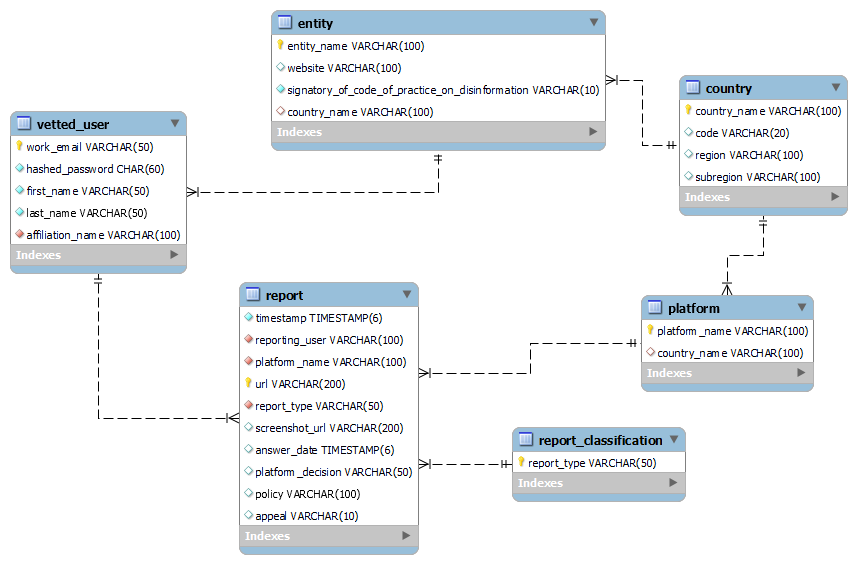
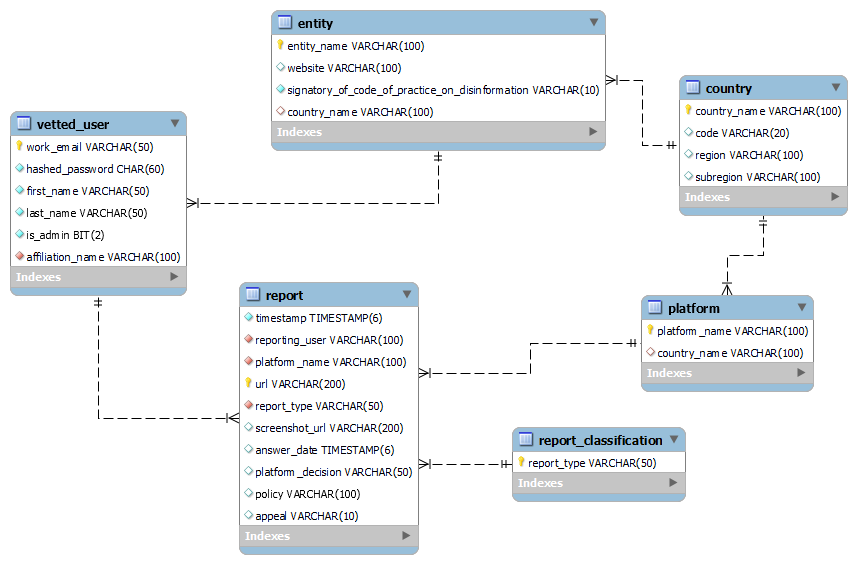
Added the admin menu and updated the app and database accordingly

Changed region(s): [[0.0, 0.3918, 0.2427, 0.5426], [0.4854, 0.3316, 0.5158, 0.3617], [0.2124, 0.3316, 0.2427, 0.3617]]

diff --git a/app.py b/app.py
@@ -20,12 +20,13 @@ server = app.server
 #_______________________________Pages Custom Properties_______________________________#
 
 app_pages = [
-    {"name" : "Home", "relative_path" : "/", "protected" : False, "show_to_active_user" : True},
-    {"name" : "Data Insights", "relative_path" : "/data-insights", "protected" : False, "show_to_active_user": True},
-    {"name" : "Application", "relative_path" : "/application", "protected" : False, "show_to_active_user": False},
-    {"name" : "Internal", "relative_path" : "/internal", "protected" : True, "show_to_active_user" : True},
-    {"name" : "Login", "relative_path" : "/login", "protected" : False, "show_to_active_user":False},
-    {"name" : "Logout", "relative_path" : "/login", "protected" : True, "show_to_active_user":True}
+    {"name" : "Home", "relative_path" : "/", "show_to_public":True, "show_to_users":True, "show_to_admin":True},
+    {"name" : "Admin Menu", "relative_path" : "/admin-menu", "show_to_public":False, "show_to_users":False, "show_to_admin":True},
+    {"name" : "Data Insights", "relative_path" : "/data-insights", "show_to_public":True, "show_to_users":True, "show_to_admin":True},
+    {"name" : "Application", "relative_path" : "/application", "show_to_public":True, "show_to_users":False, "show_to_admin":False},
+    {"name" : "Internal", "relative_path" : "/internal", "show_to_public":False, "show_to_users":True, "show_to_admin":True},
+    {"name" : "Login", "relative_path" : "/login", "show_to_public":True, "show_to_users":False, "show_to_admin":False},
+    {"name" : "Logout", "relative_path" : "/login", "show_to_public":False, "show_to_users":True, "show_to_admin":True}
 ]
 
 #___________________________________Navigation bar___________________________________#
@@ -92,20 +93,28 @@ def switch_app_theme(dark_theme_active):
     Input("id_session_data", "data")
     )
 def update_navbar_pages(session_data):
-    authenticated = session_data.get("is_authenticated", False)
+    is_authenticated = session_data.get("is_authenticated", False)
+    is_admin = session_data.get("is_admin", False)
 
-    if authenticated:
-        protected_pages = [
+    if is_authenticated and is_admin:
+        admin_pages = [
         dbc.NavItem(
             dbc.NavLink(f"{page['name']}", href = page["relative_path"], active = "exact")
-            ) for page in app_pages if page["show_to_active_user"] == True
+            ) for page in app_pages if page["show_to_admin"] == True
         ]
-        return protected_pages
+        return admin_pages
+    elif is_authenticated and not is_admin:
+        users_pages = [
+        dbc.NavItem(
+            dbc.NavLink(f"{page['name']}", href = page["relative_path"], active = "exact")
+            ) for page in app_pages if page["show_to_users"] == True
+        ]
+        return users_pages
     else:
         public_pages = [
         dbc.NavItem(
             dbc.NavLink(f"{page['name']}", href = page["relative_path"], active = "exact")
-            ) for page in app_pages if page["protected"] == False
+            ) for page in app_pages if page["show_to_public"] == True
         ]
         return public_pages
 

diff --git a/pages/internal.py b/pages/internal.py
@@ -1,4 +1,4 @@
-from dash import Dash, html, dcc, callback, Output, Input, State, ctx, no_update, register_page
+from dash import Dash, html, dcc, callback, Output, Input, State, ctx, register_page
 import dash_bootstrap_components as dbc
 import dash_mantine_components as dmc
 from datetime import datetime
@@ -12,6 +12,7 @@ from utils.app_queries import select_reports_types
 from utils.app_queries import delete_report
 from utils.app_queries import add_report
 from utils.app_queries import update_report
+from utils.custom_templates import permission_denial_layout
 
 register_page(__name__)
 
@@ -419,7 +420,7 @@ add_report_button = dbc.Button(
 
 #_______________________________________Layout Protection Setup_______________________________________#
 
-protected_container = dbc.Container([
+protected_layout = dbc.Container([
         html.H1("Internal", style = {"text-align":"center"}),
         dmc.Center(html.H4("Update existing report or insert a new report.")),
         dbc.Row([reports_grid]),
@@ -445,20 +446,6 @@ protected_container = dbc.Container([
     fluid = True
 )
 
-
-unprotected_container = dbc.Container([
-    html.Hr(),
-    dbc.Row([
-        dbc.Col([
-            html.H1("Permission denied. No rights to access the requested page.")
-            ],
-            style = {"text-align":"center"})
-        ]),
-    html.Hr(),
-    ],
-    fluid = True
-    )
-
 #__________________________________________The actual Layout__________________________________________#
 
 layout = dbc.Container([
@@ -477,8 +464,8 @@ layout = dbc.Container([
 def layout_security(session_data):
     authenticated = session_data.get("is_authenticated", False)
     if authenticated:
-        return protected_container
-    return unprotected_container
+        return protected_layout
+    return permission_denial_layout
 
 #---------------------------------------Returning User's reports---------------------------------------#
 @callback(

diff --git a/pages/admin-menu.py b/pages/admin-menu.py
@@ -1,0 +1,39 @@
+from dash import Dash, html, dcc, callback, Output, Input, State, ctx, register_page
+import dash_bootstrap_components as dbc
+import dash_mantine_components as dmc
+from datetime import datetime
+import dash_ag_grid as dag
+import pandas as pd
+import re
+from datetime import datetime
+from utils.custom_templates import permission_denial_layout
+
+register_page(__name__)
+
+#_______________________________________Layout Protection Setup_______________________________________#
+
+protected_layout = dbc.Container([
+    ],
+    fluid = True
+)
+
+#__________________________________________The actual Layout__________________________________________#
+
+layout = dbc.Container([
+    ],
+    id = "id_admin_menu_layout",
+    fluid = True
+    )
+
+#------------------------------------------Securing the Page------------------------------------------#
+@callback(
+    Output("id_admin_menu_layout", "children"),
+    Input("id_session_data", "data")
+    ) #Do not prevent initial call
+def layout_security(session_data):
+    is_authenticated = session_data.get("is_authenticated", False)
+    is_admin = session_data.get("is_admin", False)
+    
+    if is_authenticated and is_admin:
+        return protected_layout
+    return permission_denial_layout

diff --git a/utils/database_connector.py b/utils/database_connector.py
@@ -3,17 +3,17 @@ import pandas as pd
 
 def get_connection(logon = "vost_user", pwd = "vost", db = "vost_db"):
 	try:
-		connection = connector.connect( user = logon, password = pwd, database = db)
+		connection = connector.connect(user = logon, password = pwd, database = db)
 		return connection
-	except connector.Error as Err:
-		return None
+	except connector.Error as err:
+		return err
 
-def handle_query_connections(query_function):
+def handle_query_connections(query_executing_function):
 	def wrapper(query_statement):
 		connection = get_connection()
 		if connection:
 			cursor = connection.cursor(buffered=True)
-			query_result = query_function(cursor, query_statement)
+			query_result = query_executing_function(cursor, query_statement)
 			cursor.close()
 			connection.commit()
 			connection.close()
@@ -28,7 +28,7 @@ def write_query(cursor, query_statement):
 		cursor.execute(query_statement)
 		return "Success"
 	except connector.Error as err:
-		return str(err)
+		return err
 
 @handle_query_connections
 def read_query(cursor, query_statement):

diff --git a/utils/app_queries.py b/utils/app_queries.py
@@ -32,21 +32,23 @@ def select_all_users():
 	return df
 
 def verify_user(email_in):
-	user_data = {"full_name":"", "hashed_password":""}
+	user_info = {"full_name":"", "hashed_password":"", "is_admin":False}
 
 	user_query_string = f"""
 	SELECT
 		CONCAT(first_name, ' ', last_name) AS full_name,
+		is_admin,
 		hashed_password
 	FROM vetted_user
 	WHERE work_email = '{email_in}';
 	"""
 	df = read_query(user_query_string)
 	if not df.empty:
-		user_data["full_name"] = df.iloc[0]["full_name"]
-		user_data["hashed_password"] = df.iloc[0]["hashed_password"]
-		return user_data
-	return user_data
+		user_info["full_name"] = df.iloc[0]["full_name"]
+		user_info["hashed_password"] = df.iloc[0]["hashed_password"]
+		user_info["is_admin"] = df.iloc[0]["is_admin"]
+		return user_info
+	return user_info
 
 def select_all_reports(url_in = None):
 	reports_query_string = f"""

diff --git a/pages/login.py b/pages/login.py
@@ -58,12 +58,15 @@ def login_user(login_click, input_email, input_password):
 	if ctx.triggered_id == "id_login_button":
 		user_full_name = verify_user(input_email)["full_name"]
 		hashed_password = verify_user(input_email)["hashed_password"]
+		user_is_an_admin = verify_user(input_email)["is_admin"]
+
 		password_validation = compare_passwords(input_password, hashed_password)
 
 		if user_full_name and password_validation:
 			user_data["full_name"] = user_full_name
 			user_data["is_authenticated"] = True
 			user_data["email"] = input_email
+			user_data["is_admin"] = bool(user_is_an_admin)
 			return user_data, "/"
 
 	user_data["is_authenticated"] = False #To prevent potential bypass of the login

diff --git a/utils/custom_templates.py b/utils/custom_templates.py
@@ -1,4 +1,20 @@
-#Store for app data
+from dash import html
+import dash_bootstrap_components as dbc
+
 
 #Template to store user's session data
 session_data_template = {"email" : "", "full_name" : "", "is_authenticated" : False, "is_admin" : False}
+
+#Pages protection setup
+permission_denial_layout = dbc.Container([
+	html.Hr(),
+	dbc.Row([
+        dbc.Col([
+            html.H1("Permission denied. No rights to access the requested page.")
+            ],
+            style = {"text-align":"center"})
+        ]),
+    html.Hr(),
+    ],
+    fluid = True
+    )

diff --git a/pages/application.py b/pages/application.py
@@ -118,7 +118,7 @@ layout = dbc.Container([
 
 	html.Hr(),
 	dbc.Row([
-		html.H1("New User Registration", style = {"text-align" : "center"}),
+		html.H1("User Application", style = {"text-align" : "center"}),
 		]),
 	html.Hr(),
 	form,
